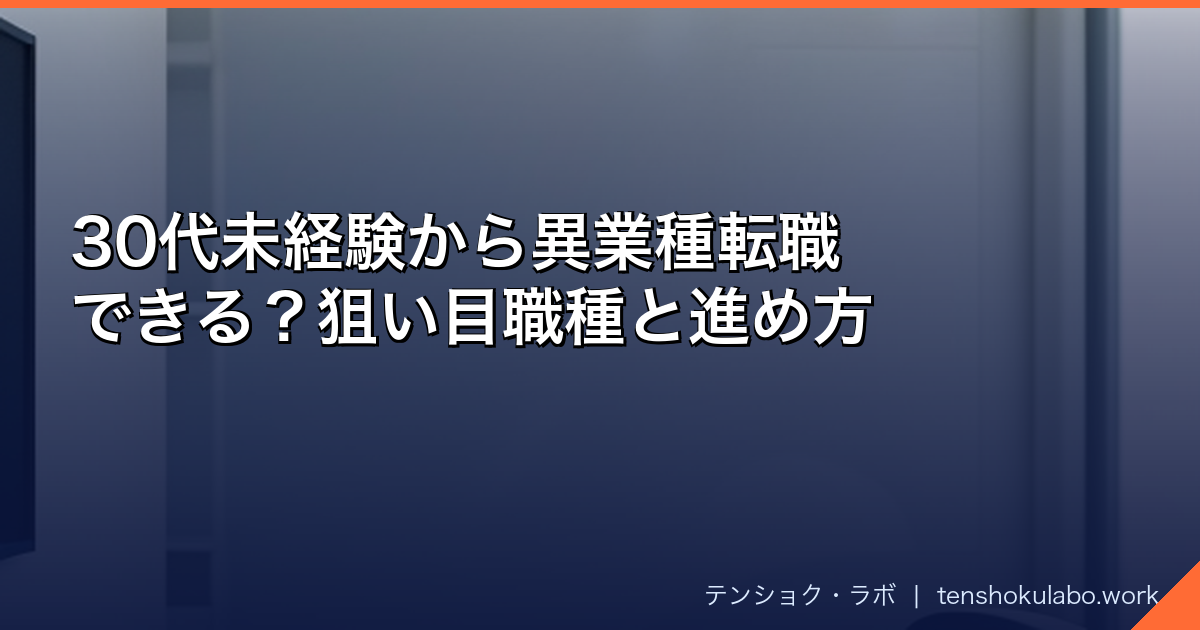
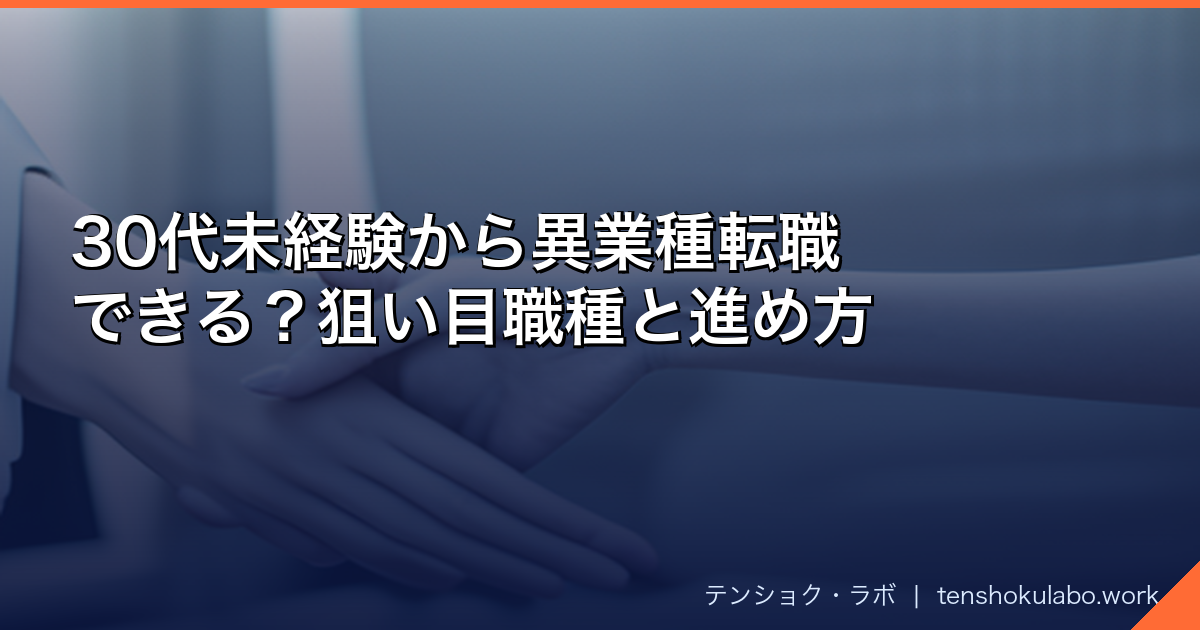
add: 30代未経験から異業種転職できる？狙い目職種と進め方

diff --git a/content/posts/2026-07-15-30代未経験から異業種へ転職できる-狙い目の職種と進め方.md b/content/posts/2026-07-15-30代未経験から異業種へ転職できる-狙い目の職種と進め方.md
@@ -1,0 +1,282 @@
+---
+title: "30代未経験から異業種転職できる？狙い目職種と進め方"
+date: "2026-07-15"
+draft: false
+description: "30代未経験からの異業種転職は可能です。狙い目の職種5選・業界より職種で考える戦略・エージェントの使い方をデータと実体験で解説します。"
+cover:
+  image: "/images/30代未経験から異業種へ転職できる-狙い目の職種と進め方.png"
+  alt: ""
+  relative: false
+categories:
+  - 転職エージェント
+  - 30代
+  - 未経験
+  - ハイクラス
+---
+
+「30代で未経験転職なんて、さすがに無理でしょ」——そう感じて、一歩踏み出せずにいませんか？
+
+当ブログ運営者のitti（転職エージェントを利用して複数社から内定を得た経験あり）が、データと実体験をもとに正直に解説します。
+
+- 30代未経験転職の現実（データで見る成功率と失敗パターン）
+- 30代が狙うべき職種と、避けるべき職種の見分け方
+- 転職エージェントを初めて使う人でも迷わない具体的な4ステップ
+
+難しく考えすぎず、まず「現実の数字」を把握することから始めましょう。
+
+---
+
+## 30代未経験転職の現実をデータで確かめる
+
+リクルートエージェントの調査によると、30〜34歳の転職者のうち {{< mark >}}約70%が異業種へ転職{{< /mark >}} しています。35〜39歳でも約67%。「30代で業界を変える」こと自体は決して珍しくありません（出典：リクルートエージェント）。
+
+ただし、「業界を変えること（異業種）」と「職種を変えること（異職種）」は別問題です。業界も職種も同時に変える「異業種×異職種」転職に成功した人は、30〜34歳で35.7%、35〜39歳で31.4%（同調査）。難しいのは事実ですが、3人に1人以上は実現しています。
+
+<div style="margin:24px 0;padding:20px;background:#f8f9fa;border-radius:12px"><svg viewBox="0 0 800 360" xmlns="http://www.w3.org/2000/svg" style="width:100%;height:auto;max-width:800px;display:block;margin:0 auto;font-family:'Hiragino Sans','Yu Gothic',sans-serif"><text x="400" y="32" text-anchor="middle" font-size="22" font-weight="bold" fill="#222">30代前半 vs 後半：転職戦略の違い</text><rect x="30" y="55" width="355" height="285" fill="#d1ecf1" stroke="#bee5eb" stroke-width="2" rx="8"/><text x="207" y="90" text-anchor="middle" font-size="20" font-weight="bold" fill="#0c5460">30〜34歳（前半）</text><text x="207" y="118" text-anchor="middle" font-size="15" fill="#0c5460">異業種転職率 約70%</text><text x="50" y="152" font-size="14" fill="#0c5460">• ポテンシャル採用の対象になりやすい</text><text x="50" y="178" font-size="14" fill="#0c5460">• 未経験職種への間口が広い</text><text x="50" y="204" font-size="14" fill="#0c5460">• 「成長意欲」も評価される</text><text x="50" y="242" font-size="14" fill="#155724">⭕ 動機の言語化＋職種の絞り込み</text><text x="50" y="268" font-size="14" fill="#155724">⭕ 2〜3社エージェント並行登録</text><text x="50" y="294" font-size="14" fill="#155724">⭕ 書類添削・面接対策を活用する</text><rect x="415" y="55" width="355" height="285" fill="#fff3cd" stroke="#ffeeba" stroke-width="2" rx="8"/><text x="592" y="90" text-anchor="middle" font-size="20" font-weight="bold" fill="#856404">35〜39歳（後半）</text><text x="592" y="118" text-anchor="middle" font-size="15" fill="#856404">異業種転職率 約67%</text><text x="433" y="152" font-size="14" fill="#856404">• 即戦力・マネジメント経験が重視される</text><text x="433" y="178" font-size="14" fill="#856404">• 完全未経験職種への採用は限定的</text><text x="433" y="204" font-size="14" fill="#856404">• 「貢献できること」の具体説明が必須</text><text x="433" y="242" font-size="14" fill="#721c24">⭕ 同職種×異業種を優先的に狙う</text><text x="433" y="268" font-size="14" fill="#721c24">⭕ ポータブルスキルの言語化に時間をかける</text><text x="433" y="294" font-size="14" fill="#721c24">⭕ ハイクラス転職エージェントも視野に</text></svg></div>
+
+30代前半と後半では、取れる戦略が変わります。前半は「ポテンシャル採用」の枠に入れる可能性がある分、選択肢が広い。後半は即戦力性が問われるため、「業界を変える」か「職種を変える」かどちらかに絞るほうが現実的です。
+
+### 企業が30代未経験に求めるのは「汎用スキル」
+
+マイナビ中途採用状況調査2025年版によると、企業の9割超が2025年の中途採用に積極的です（出典：マイナビキャリアリサーチLab）。ただし、転職回数を懸念する採用担当者は77.6%に上ります。
+
+30代未経験者への期待は「ゼロから育てる」ではなく、「過去の経験を別の場所で活かせるか」です。たとえば「チームをまとめた経験」「目標に対してコミットした実績」「顧客と交渉した経験」は、業界が変わっても通用する汎用スキルです。
+
+ただし、年収面では覚悟が必要です。マイナビ転職動向調査2025年版によると、未経験職への転職では {{< mark >}}年収が下がった人が51.2%{{< /mark >}}、上がった人は34.6%にとどまります（出典：マイナビ転職）。「今より良くなりたい」という気持ちは当然ですが、未経験転職の初戦では年収維持が現実的なゴールです。入社後に実績を積んでから年収を伸ばすキャリアプランで動いた人が、結果的に年収アップを実現しています。
+
+{{< chat name="さくら" side="left" avatar="/images/chars/sakura_anime.png" color="pink" >}}
+「30代では厳しい」ってよく聞くんですが、実際はどうなんですか？
+{{< /chat >}}
+
+{{< chat name="itti" side="left" avatar="/images/chars/itti_anime.png" color="blue" >}}
+難しいのは本当です。ただ「無理」ではない。大事なのは「どの職種を狙うか」と「なぜこの職種なのかを説明できるか」です。私自身、製造業から転職活動をしたとき、動機が曖昧なまま進めたせいで内定が出ても決め切れなかった。職種の選び方と動機の言語化が成否を分けます。
+{{< /chat >}}
+
+{{< box color="yellow" title="30代で「面接で落ちやすい」パターン" >}}
+- 「成長したいから転職したい」（具体性がない動機）
+- 「なぜ今さらこの職種を希望するのか」に答えられない
+- 転職回数が多く、且つその理由を簡潔に説明できない
+- 「何でもいいです」とエージェントに伝えてしまう
+{{< /box >}}
+
+{{< point >}}30代未経験転職は「可能」。ただし職種の選び方と動機の言語化が成否を分ける{{< /point >}}
+
+---
+
+## 30代が異業種転職で狙うべき職種5選
+
+「未経験OK」とひとことで言っても、職種によって難易度は大きく異なります。ここでは30代未経験者でも採用実績がある職種を5つ紹介します。
+
+### ① 法人営業・IT営業（実績が数字で見えやすい）
+
+営業職は、業界経験より「コミュニケーション能力」「数字へのコミット力」が評価されます。特にIT企業のSaaS営業やインサイドセールスは、未経験者向けポジションが近年急増しています。
+
+パソナの調査では、IT業界の営業職求人が2023年比で {{< mark >}}2.7倍以上に増加{{< /mark >}}（2024年）しています（出典：パソナ）。「売上目標を達成した経験」「チームをまとめた経験」があれば、製造業や小売業出身でも採用される可能性が十分あります。
+
+### ② IT系（カスタマーサクセス・SaaS補佐職）
+
+ITエンジニアには資格・スキルが必要ですが、カスタマーサクセス（CS）やSaaS製品のサポート職は、文系・異業種でも採用実績が豊富です。IT通信業界全体の求人倍率は {{< mark >}}6.3倍{{< /mark >}}（2025年6月、パソナ調査）。需要が供給を大幅に上回る状況が続いています。
+
+### ③ 人材業界（コーディネーター・RAポジション）
+
+人材紹介会社や派遣会社のリクルーティングアドバイザー（RA）は、「人と話すのが好き」「調整業務が得意」なら未経験でも採用されやすい職種です。業界自体が人材不足で間口が広く、30代前半〜中盤に特に向いています。ただし、入社後に成果を出すまでの試行錯誤は一定期間必要です。
+
+### ④ 事務・管理系（総務・経理補佐）
+
+リクルートエージェントのデータでは、事務職の異業種×異職種転職率が52.6%（出典：リクルートエージェント）。職種の中でも未経験転職がしやすい部類です。競争率が高い分、ExcelスキルやMOS資格・簿記3級といった基礎資格があると差別化になります。
+
+### ⑤ 法人ルート営業（製造業経験者に向く）
+
+既存顧客への定期訪問・提案が中心のルート営業は、「製品知識より関係構築力」が重視されます。製造業や建設業の現場経験があれば、機械・工具・資材系メーカーの営業職への転換で「現場感覚がある提案担当」として重宝されることがあります。
+
+{{< chat name="さくら" side="left" avatar="/images/chars/sakura_anime.png" color="pink" >}}
+5つ挙げてもらいましたが、私みたいに営業経験がない人はどれを選べばいいか悩みます。
+{{< /chat >}}
+
+{{< chat name="itti" side="left" avatar="/images/chars/itti_anime.png" color="blue" >}}
+「今の仕事で何が得意か」から逆算するといいですよ。人と話すのが得意なら人材系、書類処理や調整が得意なら総務・経理補佐、ITツールを日常的に使っているならカスタマーサクセスと接続しやすい。職種の特性を自分の得意と重ねて考えると絞りやすくなります。
+{{< /chat >}}
+
+{{< box color="green" title="30代未経験でも狙いやすい職種まとめ" >}}
+- <strong>法人営業・IT営業</strong>（実績が数字になる・求人倍率が高い）
+- <strong>カスタマーサクセス</strong>（IT業界・文系でも入口がある）
+- <strong>人材コーディネーター</strong>（業界の人手不足で未経験OK枠多め）
+- <strong>事務・総務</strong>（転職率52.6%・資格で差別化）
+- <strong>ルート営業</strong>（製造業・建設業の現場経験が武器になる）
+{{< /box >}}
+
+{{< point >}}「未経験OK」と「自分のスキルが接続できる職種」の掛け合わせが30代の職種選びの正解{{< /point >}}
+
+---
+
+## 「業界より職種で考える」——30代の転職戦略の核心
+
+「転職＝業界を変えること」と思い込んでいませんか？ここが30代未経験転職で多くの人が混乱するポイントです。
+
+<div style="margin:24px 0;padding:20px;background:#f8f9fa;border-radius:12px"><svg viewBox="0 0 900 420" xmlns="http://www.w3.org/2000/svg" style="width:100%;height:auto;max-width:900px;display:block;margin:0 auto;font-family:'Hiragino Sans','Yu Gothic',sans-serif"><text x="450" y="32" text-anchor="middle" font-size="22" font-weight="bold" fill="#222">「業界転換」×「職種転換」の4パターン難易度</text><line x1="450" y1="50" x2="450" y2="410" stroke="#aaa" stroke-width="2" stroke-dasharray="6,3"/><line x1="45" y1="230" x2="855" y2="230" stroke="#aaa" stroke-width="2" stroke-dasharray="6,3"/><text x="450" y="47" text-anchor="middle" font-size="14" fill="#666">職種を変える（異職種）↑</text><text x="450" y="418" text-anchor="middle" font-size="14" fill="#666">↓ 職種は変えない（同職種）</text><text x="48" y="226" font-size="13" fill="#666">同業種 →</text><text x="852" y="226" text-anchor="end" font-size="13" fill="#666">← 異業種</text><rect x="50" y="56" width="385" height="160" fill="#fff3cd" stroke="#ffeeba" stroke-width="2" rx="8"/><text x="242" y="100" text-anchor="middle" font-size="17" font-weight="bold" fill="#856404">同業種 × 異職種</text><text x="242" y="128" text-anchor="middle" font-size="15" fill="#856404">難易度 ★★☆</text><text x="242" y="158" text-anchor="middle" font-size="13" fill="#856404">業界知識が強みになる</text><text x="242" y="182" text-anchor="middle" font-size="13" fill="#856404">例：製造業→製造業の企画職</text><rect x="465" y="56" width="385" height="160" fill="#f8d7da" stroke="#f5c6cb" stroke-width="2" rx="8"/><text x="657" y="100" text-anchor="middle" font-size="17" font-weight="bold" fill="#721c24">異業種 × 異職種</text><text x="657" y="128" text-anchor="middle" font-size="15" fill="#721c24">難易度 ★★★（最難関）</text><text x="657" y="158" text-anchor="middle" font-size="13" fill="#721c24">転職動機の明確化が必須</text><text x="657" y="182" text-anchor="middle" font-size="13" fill="#721c24">例：製造業→IT企業のCS職</text><rect x="50" y="245" width="385" height="155" fill="#d4edda" stroke="#c3e6cb" stroke-width="2" rx="8"/><text x="242" y="288" text-anchor="middle" font-size="17" font-weight="bold" fill="#155724">同業種 × 同職種</text><text x="242" y="315" text-anchor="middle" font-size="15" fill="#155724">難易度 ★☆☆（転職しやすい）</text><text x="242" y="343" text-anchor="middle" font-size="13" fill="#155724">実績がそのまま評価される</text><text x="242" y="366" text-anchor="middle" font-size="13" fill="#155724">例：同業他社への転職</text><rect x="465" y="245" width="385" height="155" fill="#d1ecf1" stroke="#bee5eb" stroke-width="2" rx="8"/><text x="657" y="288" text-anchor="middle" font-size="17" font-weight="bold" fill="#0c5460">異業種 × 同職種</text><text x="657" y="315" text-anchor="middle" font-size="15" fill="#0c5460">難易度 ★★☆（現実的な選択肢）</text><text x="657" y="343" text-anchor="middle" font-size="13" fill="#0c5460">スキルを活かして業界変更</text><text x="657" y="366" text-anchor="middle" font-size="13" fill="#0c5460">例：製造業の営業→IT企業の営業</text></svg></div>
+
+上の図が示すように、難易度が最も高いのは「異業種かつ異職種」のダブル転換です。30代で転職の可能性を広げたいなら、まずどちらかを固定して考えることが大切です。
+
+### 「異業種」と「異職種」は別問題
+
+たとえば、製造業の営業マンがIT企業の営業マンになるのは「異業種・同職種」の転換です。この場合、営業スキルはそのまま活かせるため採用難易度は下がります。一方、製造業の現場作業員がIT企業のプログラマーになるのは「異業種・異職種」で、ハードルはかなり高くなります。
+
+<strong>30代未経験転職で最初に問うべきことは、「何を変えて何を残すか」です。</strong>
+
+### 自分のポータブルスキルを棚卸しする方法
+
+ポータブルスキル（業界・職種を問わず通用する汎用能力）は、「どんな仕事をしたか（What）」より「どう問題を解決したか（How）」と「結果何が変わったか（Result）」の3点で言語化します。
+
+「飲食店で15名をまとめていた」→「スタッフ15名のシフト管理・トレーニングを担当し、離職率を前年比30%改善した」のように、数字と行動と結果をセットにするのが基本です。飲食店からIT企業営業に転換した30代の実例では、この「マネジメント実績の数値化」が決め手となり、年収を320万円から700万円に引き上げています（出典：note・そうた氏）。
+
+{{< chat name="さくら" side="left" avatar="/images/chars/sakura_anime.png" color="pink" >}}
+「ポータブルスキル」って言葉は聞いたことあるんですが、自分に何があるのかよくわからなくて。
+{{< /chat >}}
+
+{{< chat name="itti" side="left" avatar="/images/chars/itti_anime.png" color="blue" >}}
+「こういう状況で、こう動いたら、こうなった」という3点セットを書くだけです。製造業の現場なら「設備トラブルを自分で判断して対応し、ラインの停止時間を半分にした」という話が、他業界では立派な実績になる。自分では当たり前と思っていることが、異業種では希少なスキルになることが多いです。
+{{< /chat >}}
+
+{{< chat name="さくら" side="left" avatar="/images/chars/sakura_anime.png" color="pink" >}}
+自分では気づきにくいですよね。どうやって見つけるんですか？
+{{< /chat >}}
+
+{{< chat name="itti" side="left" avatar="/images/chars/itti_anime.png" color="blue" >}}
+一人で気づくのは難しい、というのが正直なところです。私自身、エージェントの面談で職務経歴書を添削してもらうまで「その改善、それ立派な実績ですよ」と言われるまで気づかなかった。エージェントの初回面談を「登録手続き」ではなく「棚卸しの場」として使うのが効果的です。
+{{< /chat >}}
+
+{{< point >}}「異業種」か「異職種」のどちらかに絞ると現実的になる。ダブル転換を狙う場合は動機の言語化が必須{{< /point >}}
+
+---
+
+## 30代未経験転職の具体的な進め方4ステップ
+
+「転職したいけど何から始めればいい？」という疑問に、順を追って答えます。
+
+<div style="margin:24px 0;padding:20px;background:#f8f9fa;border-radius:12px"><svg viewBox="0 0 900 290" xmlns="http://www.w3.org/2000/svg" style="width:100%;height:auto;max-width:900px;display:block;margin:0 auto;font-family:'Hiragino Sans','Yu Gothic',sans-serif"><defs><marker id="arrowB" markerWidth="10" markerHeight="10" refX="9" refY="3" orient="auto" markerUnits="strokeWidth"><path d="M0,0 L0,6 L9,3 z" fill="#333"/></marker></defs><text x="450" y="34" text-anchor="middle" font-size="22" font-weight="bold" fill="#222">30代未経験転職の4ステップ</text><circle cx="120" cy="108" r="36" fill="#1a5276"/><text x="120" y="118" text-anchor="middle" font-size="26" font-weight="bold" fill="#fff">1</text><rect x="20" y="160" width="200" height="115" fill="#e8f4f8" stroke="#1a5276" stroke-width="2" rx="6"/><text x="120" y="192" text-anchor="middle" font-size="17" font-weight="bold" fill="#1a5276">職種を絞る</text><text x="120" y="215" text-anchor="middle" font-size="14" fill="#1a5276">業界・職種どちらを</text><text x="120" y="235" text-anchor="middle" font-size="14" fill="#1a5276">変えるか決める</text><path d="M 230 108 L 300 108" stroke="#333" stroke-width="3" marker-end="url(#arrowB)"/><circle cx="340" cy="108" r="36" fill="#1a5276"/><text x="340" y="118" text-anchor="middle" font-size="26" font-weight="bold" fill="#fff">2</text><rect x="240" y="160" width="200" height="115" fill="#e8f4f8" stroke="#1a5276" stroke-width="2" rx="6"/><text x="340" y="192" text-anchor="middle" font-size="17" font-weight="bold" fill="#1a5276">2社以上に登録</text><text x="340" y="215" text-anchor="middle" font-size="14" fill="#1a5276">転職エージェントに</text><text x="340" y="235" text-anchor="middle" font-size="14" fill="#1a5276">複数同時に登録する</text><path d="M 450 108 L 520 108" stroke="#333" stroke-width="3" marker-end="url(#arrowB)"/><circle cx="560" cy="108" r="36" fill="#1a5276"/><text x="560" y="118" text-anchor="middle" font-size="26" font-weight="bold" fill="#fff">3</text><rect x="460" y="160" width="200" height="115" fill="#e8f4f8" stroke="#1a5276" stroke-width="2" rx="6"/><text x="560" y="192" text-anchor="middle" font-size="17" font-weight="bold" fill="#1a5276">面談で軸を伝える</text><text x="560" y="215" text-anchor="middle" font-size="14" fill="#1a5276">「○○職に転換したい」と</text><text x="560" y="235" text-anchor="middle" font-size="14" fill="#1a5276">職種軸を先に話す</text><path d="M 670 108 L 740 108" stroke="#333" stroke-width="3" marker-end="url(#arrowB)"/><circle cx="780" cy="108" r="36" fill="#155724"/><text x="780" y="118" text-anchor="middle" font-size="26" font-weight="bold" fill="#fff">4</text><rect x="680" y="160" width="200" height="115" fill="#d4edda" stroke="#155724" stroke-width="2" rx="6"/><text x="780" y="192" text-anchor="middle" font-size="17" font-weight="bold" fill="#155724">実績を言語化</text><text x="780" y="215" text-anchor="middle" font-size="14" fill="#155724">過去スキルを</text><text x="780" y="235" text-anchor="middle" font-size="14" fill="#155724">相手の言葉に翻訳</text></svg></div>
+
+### STEP1 職種を1〜2つに絞る
+
+上の4象限マトリクスを参考に、「業界を変えるのか」「職種を変えるのか」「その両方か」を決めます。職種は1〜2つに絞ること。「何でもいいです」という状態では、エージェントも適切な求人を紹介できません。
+
+### STEP2 転職エージェントに登録する（複数並行が鉄則）
+
+30代未経験転職では、1社のエージェントだけでは求人の幅が限られます。担当者の得意分野によっても紹介される求人が変わるため、<strong>最低2社に同時登録</strong>することをおすすめします。
+
+初めて転職エージェントを使う場合は、リクルートエージェントとパソナキャリアの2社からスタートするのが定番です。どちらも無料で利用できます。
+
+<div class="agent-card-grid">
+
+{{< agent-card name="リクルートエージェント" short="RA" rating="4.8" badge="求人数No.1"
+    tag="30代実績豊富" jobs="約60万件"
+    url="https://t.afi-b.com/visit.php?a=968723-R229373H&p=X979052c"
+    points="非公開求人が全求人の約80%|転職支援実績No.1・全国47都道府県対応|模擬面接・書類添削サポートが充実"
+    body="30代の幅広いニーズに対応。初めてエージェントを使う人にも安心。" >}}
+
+{{< agent-card name="パソナキャリア" short="PC" rating="4.5" badge="丁寧なサポート"
+    tag="書類添削◎" jobs="約3万件"
+    url="https://ck.jp.ap.valuecommerce.com/servlet/referral?sid=3768702&pid=892622082"
+    points="書類添削・面接対策が手厚い|30代〜40代のキャリアチェンジに強い|平均内定率が高水準"
+    body="経験の言語化サポートが好評。未経験職種への転換を手伝ってくれる。" >}}
+
+{{< agent-card name="就職カレッジ" short="JC" rating="4.3" badge="未経験特化"
+    tag="書類選考なし" jobs="最大20社と集団面接"
+    url="https://af.moshimo.com/af/c/click?a_id=5567986&p_id=7267&pc_id=20834&pl_id=91575"
+    points="書類選考なしで最大20社と面接会|約5日間の無料ビジネス研修|正社員経験が少ない30代前半向け"
+    body="完全未経験・正社員経験なし・ブランクがある30代前半に向く。" >}}
+
+{{< agent-card name="JACリクルートメント" short="JA" rating="4.6" badge="30代後半・ハイクラス向け"
+    tag="管理職・外資系" jobs="約9,700件"
+    url="https://ck.jp.ap.valuecommerce.com/servlet/referral?sid=3768702&pid=892641573"
+    points="ミドル・ハイクラス求人に特化|外資系・管理職転職が得意|30年以上・43万人の支援実績"
+    body="30代後半で管理職経験あり・年収アップ狙いの人向け。完全未経験には向かない。" >}}
+
+</div>
+
+### STEP3 初回面談で「職種軸」を明確に伝える
+
+初回面談では「○○の職種に興味があり、過去の△△スキルが活かせると考えています」という形で、職種軸を先に伝えると話が進みやすくなります。「何でもいい」は整理が難しくなる逆効果です。
+
+初回面談で聞かれることの詳細は、[転職エージェントに登録したら何をする？初回面談で聞かれることと準備すべきこと](/posts/2026-04-13-転職エージェントに登録したら何をする-初回面談で聞かれることと準備すべきこと/)にまとめています。
+
+### STEP4 書類・面接で過去スキルを言語化する
+
+職務経歴書では「業務内容の説明」ではなく「実績と貢献の説明」を書きます。転職活動の平均期間は2〜3ヶ月ですが（出典：doda）、30代未経験の場合は余裕を見て3〜5ヶ月で進めるとよいでしょう。
+
+スケジュール感については[転職活動の平均期間はどのくらい？エージェント利用者のリアルなデータと経験談](/posts/2026-04-21-転職活動の平均期間はどのくらい-エージェント利用者のリアルなデータと経験談/)も参考にしてください。
+
+{{< chat name="さくら" side="left" avatar="/images/chars/sakura_anime.png" color="pink" >}}
+エージェントって結局どこに登録すればいいんですか？多すぎてどれか選べなくて。
+{{< /chat >}}
+
+{{< chat name="itti" side="left" avatar="/images/chars/itti_anime.png" color="blue" >}}
+まずはリクルートエージェントとパソナキャリアの2社から始めるのが無難です。求人数が多く、サポートも整っています。私自身はJACリクルートメントを使いましたが、JACはある程度の経験者向けなので、完全未経験で職種転換を狙う場合は大手2社のほうが選択肢が広いです。
+{{< /chat >}}
+
+{{< point >}}進め方は「職種を絞る→2社以上登録→初回面談で職種軸を伝える→実績を言語化する」の4ステップ{{< /point >}}
+
+エージェントの全体的な使い方は[転職エージェントの使い方完全ガイド（登録から内定獲得まで）](/posts/2026-04-12-転職エージェントの使い方完全ガイド-登録から内定獲得までの流れを解説/)もあわせて読んでください。
+
+{{< linkcard "/posts/2026-04-12-転職エージェントの使い方完全ガイド-登録から内定獲得までの流れを解説/" >}}
+
+---
+
+## 30代未経験転職でよくある失敗と対処法
+
+### 「なんとなく転職」が最大の落とし穴
+
+「今の職場が嫌だから」「なんとなく今より良くなりたい」という漠然とした動機では、面接で通過できません。面接で必ず問われるのは「なぜ今さら業界・職種を変えるのか」という転職の必然性です。
+
+これは私自身が痛感した失敗です。製造業の現場から転職活動を始めた際、動機が曖昧なまま進めてしまったことで、複数社から内定が出ても最後に決め切れず立ち止まりました。転職の軸が定まっていないと、内定が出ても「本当にここでいいのか」と迷い続けます。
+
+{{< box color="red" title="面接で落とされるNGパターン" >}}
+- 「成長したいから転職したい」（抽象的で採用担当に刺さらない）
+- 「今の職場の人間関係が辛いから」（ネガティブな動機）
+- 「御社の商品が好きだから」（なぜその職種なのかが説明できていない）
+→ 面接官が聞きたいのは「あなたがウチで何ができるか」という具体的な貢献の話
+{{< /box >}}
+
+### エージェント1社だけで進めるリスク
+
+30代未経験の場合、担当エージェントの得意分野次第で「紹介される求人が偏る」ことがあります。よくある失敗例として、接客業のみのキャリアで書類選考に連続して落ち続け、エージェントからの紹介件数も少なくなるケースがあります（参考：note・海月氏）。
+
+こうした場合は、担当者に「転換したい職種軸」を明確に伝え直すか、別のエージェントを追加することを検討しましょう。<strong>2〜3社を並行して使うこと</strong>が、選択肢を広げる最も効果的な方法です。
+
+{{< chat name="さくら" side="left" avatar="/images/chars/sakura_anime.png" color="pink" >}}
+書類選考が全然通らないとき、どうすればいいですか？心が折れそうになります。
+{{< /chat >}}
+
+{{< chat name="itti" side="left" avatar="/images/chars/itti_anime.png" color="blue" >}}
+書類が通らない理由はだいたい2パターンです。①狙う職種が今のスキルと離れすぎている、②職務経歴書が「業務の説明」になっていて「実績と貢献」が書けていない。エージェントに職務経歴書の添削を依頼して、改善点をフィードバックしてもらうのが最も早い対処法です。
+{{< /chat >}}
+
+{{< point >}}動機の曖昧さとエージェント1社頼みが、30代未経験転職の2大失敗原因{{< /point >}}
+
+30代向けのエージェント選びについては[30代向け転職エージェント比較5選](/posts/2026-04-06-30代の転職エージェント比較ランキング-キャリアアップに強いサービスはどれ/)もあわせて確認してください。
+
+{{< linkcard "/posts/2026-04-06-30代の転職エージェント比較ランキング-キャリアアップに強いサービスはどれ/" >}}
+
+---
+
+## まとめ——30代未経験転職は職種ファーストで動く
+
+{{< box color="gray" title="この記事のまとめ" >}}
+- 30代の異業種転職は珍しくない。30〜34歳の転職者の約70%が異業種へ移っている（リクルートエージェント調査）
+- 「業界転換」と「職種転換」は別問題。ダブル転換は難易度が跳ね上がるため、どちらかを固定して考える
+- 狙い目職種は①法人営業・IT営業 ②カスタマーサクセス ③人材コーディネーター ④事務・総務 ⑤ルート営業
+- 進め方は「職種を絞る→2社以上登録→初回面談で軸を伝える→実績を言語化する」の4ステップ
+- 動機が曖昧なまま進めない。「なぜこの職種なのか」を言語化してから動き始める
+{{< /box >}}
+
+30代の転職は「可能か不可能か」より「どう動くか」のほうが大切です。まずは気になるエージェントへの無料登録から、一歩踏み出してみてください。
+
+転職活動をひとりで抱え込まず、プロのサポートを使いながら動ける人が結果を出しています。あなたの一歩を応援しています。
+
+{{< cta-block
+    title="気になったエージェントに、まず無料登録してみる"
+    sub="登録5分・完全無料・担当者に職種軸を伝えるだけでOK"
+    main-label="リクルートエージェントに無料登録" main-url="https://t.afi-b.com/visit.php?a=968723-R229373H&p=X979052c"
+    sub-label="パソナキャリアで求人を見る" sub-url="https://ck.jp.ap.valuecommerce.com/servlet/referral?sid=3768702&pid=892622082"
+    badges="完全無料|登録5分|非公開求人あり|書類添削サポートあり" >}}
+迷ったら<strong>大手2社</strong>に登録して、初回面談で「職種の方向性」を整理してもらうのがおすすめです。
+{{< /cta-block >}}